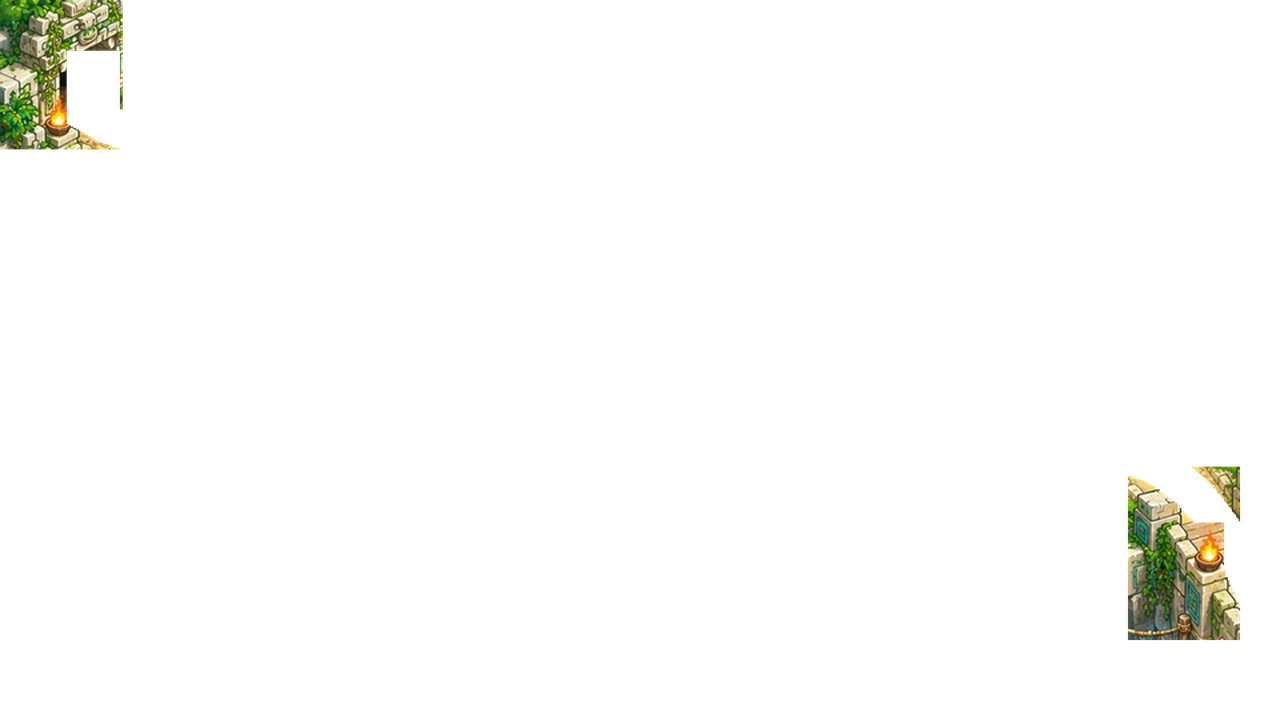
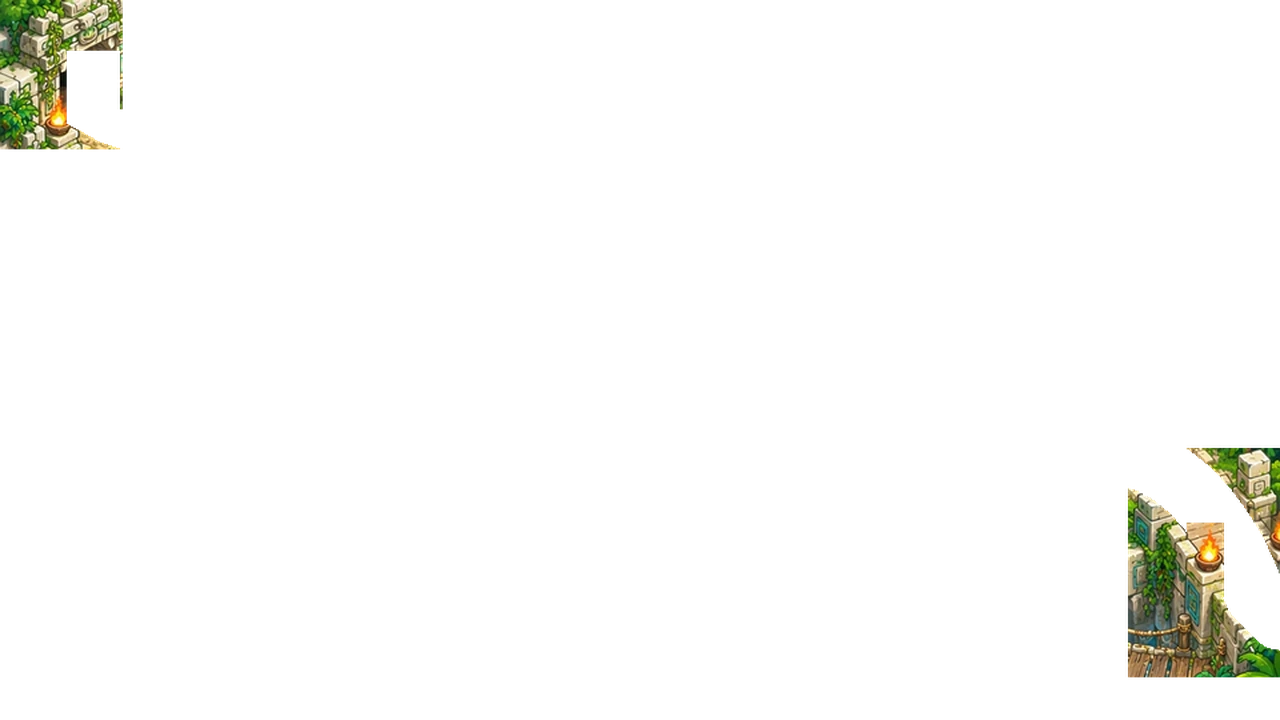
fix(td): the way out is a gateway too, not just its left half
The exit's gate layer stopped at x=930 and the road runs to 959, so
everything past it — the far column, the second torch post, the wall below
them — was still background, and creeps walked over the lot. The gate now
covers the whole gateway to the board's edge.

Its road strip needed to be wider than the arch's, too: creeps leave down a
paved ramp, not through a doorway, and a 14px half-width left paving keyed
as foreground either side of them. A gate can now set its own band.

Changed region(s): [[0.875, 0.6111, 1.0, 0.7944], [0.875, 0.8556, 1.0, 0.9472], [0.9375, 0.7944, 0.9688, 0.8556]]

diff --git a/scripts/td_maps.py b/scripts/td_maps.py
@@ -66,7 +66,8 @@ export const MAPS: Record<string, MapDef> = {
 #: how far past the edge the road runs, so creeps walk on and off rather than
 #: appearing and vanishing at the border
 OVERRUN = 80
-#: half the width of the road, in board px: the strip creeps actually walk on
+#: half the width of the road, in board px: the strip creeps actually walk on.
+#: A gate may override it — a paved ramp is wider than a doorway.
 BAND = 14
 
 
@@ -115,7 +116,8 @@ def gate_overlay(board, road, gates):
         x0, y0, x1, y1 = g["box"]
         keep = np.zeros((h, w), dtype=bool)
         keep[y0:y1, x0:x1] = True
-        keep &= ~band
+        keep &= ~(band if g.get("band", BAND) == BAND
+                  else road_band((h, w), road, g["band"]))
         if "opening" in g:
             ox0, oy0, ox1, oy1 = g["opening"]
             keep[oy0:oy1, ox0:ox1] = False
